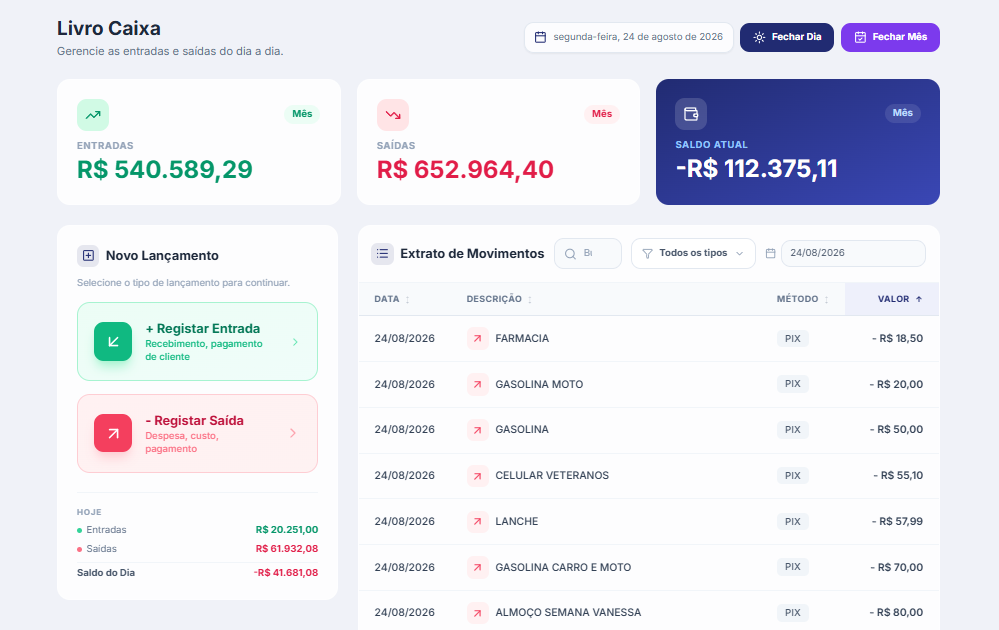
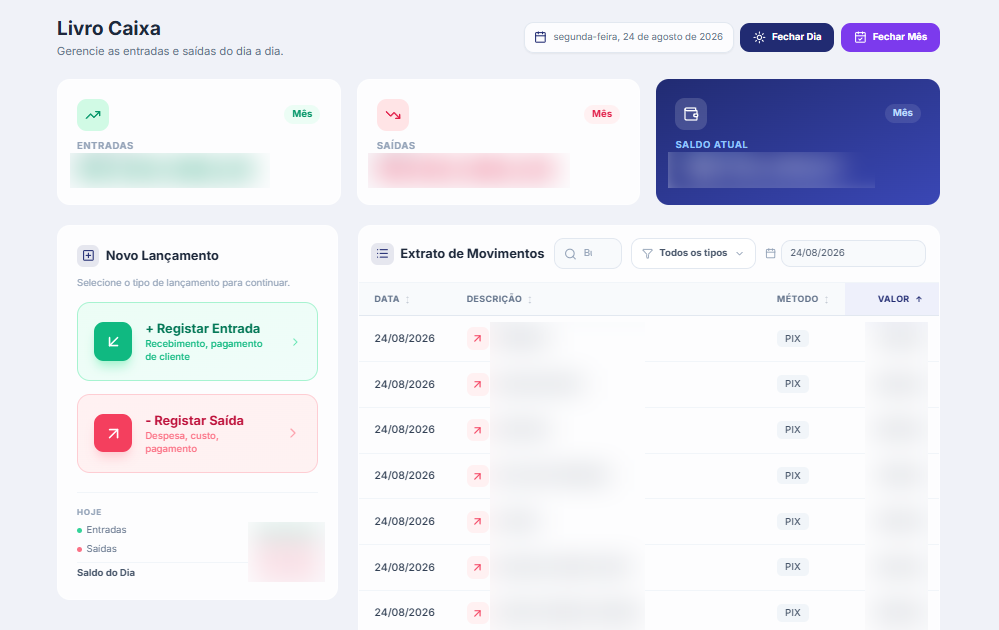
Saída própria pra seção de sistemas e valores borrados no financeiro
#sistemas terminava na letra miúda do orçamento e emendava no Google: o
visitante via os casos e não tinha pra onde ir, enquanto todo o resto da
página levava ao WhatsApp. Agora tem três portas: um cartão de saída no fim
da seção com link próprio, "Sistemas" como primeiro item do menu no desktop
e no mobile, e uma linha no hero abaixo dos dois botões.

A mensagem do WhatsApp dessa saída é outra, e fica fixa no código. Quem
chega por aqui não está pedindo plano mensal — a conversa começa errada se
a mensagem disser "planos". Não virou prop porque mais um campo no editor é
mais um campo pra esquecer.

As capturas do financeiro traziam número real de cliente: saldo de caixa,
total em contratos, vendas do mês e um extrato com nome de pessoa na
descrição. Os valores saíram no desfoque, banda a banda, com as bandas
medidas por perfil de linha. Os rótulos continuam nítidos de propósito — é
o rótulo que mostra que aquilo é um sistema, não o valor. PNG e WebP foram
borrados os dois, senão a versão em alta continua legível: a pasta imgs/
serve as duas pela URL.

Entram junto o publicar.ps1, que separa o envio de teste do de produção, e
o .claude/launch.json com o servidor local de preview — a página precisa de
servidor, por file:// o support.js não carrega.

diff --git a/index.html b/index.html
@@ -788,6 +788,24 @@
 
   .sis-pe { margin: 26px 0 0; font-size: 12.5px; line-height: 1.6; color: var(--placeholder); text-align: center; }
 
+  /* ---- a saida da secao ----
+     A secao terminava na letra miuda: o visitante via o caso do banco e nao
+     tinha para onde ir. O link e o mesmo WhatsApp do resto da pagina, mas com
+     mensagem propria (`sistemaUrl`) -- quem chega por aqui nao esta pedindo
+     plano mensal, e a conversa comeca errada se a mensagem disser "planos". */
+  .sis-cta {
+    margin-top: 34px; padding: clamp(30px, 4vw, 46px); text-align: center;
+    border-radius: var(--r-base); background: var(--bg); box-shadow: var(--nm-out-sm);
+  }
+  .sis-cta h3 {
+    font-family: 'Plus Jakarta Sans', system-ui, sans-serif; font-weight: 800;
+    font-size: clamp(21px, 2.6vw, 30px); line-height: 1.14; letter-spacing: -.025em;
+    margin: 0; color: var(--fg);
+  }
+  .sis-cta > p { margin: 14px auto 0; max-width: 48ch; font-size: 15.5px; line-height: 1.65; color: var(--muted); }
+  .sis-cta .btn { margin-top: 26px; }
+  .sis-cta .sis-pe { margin-top: 22px; }
+
   @media (max-width: 980px) {
     .sis-slide { grid-template-columns: minmax(0,1fr); gap: 24px; }
     .sis-midia { order: -1; justify-items: center; }
@@ -1809,6 +1827,7 @@
       </div>
 
       <nav class="nav-desktop" style="display: flex; align-items: center; gap: 6px;">
+        <a class="nav-link" href="#sistemas">Sistemas</a>
         <a class="nav-link" href="#diferenciais">Por que ACTech</a>
         <a class="nav-link" href="#faq">Dúvidas</a>
         <!-- Dois caminhos no topo: quem quer ver preço antes de falar com alguém
@@ -1830,6 +1849,7 @@
     <sc-if value="{{ menuOpen }}" hint-placeholder-val="{{ false }}">
       <div class="mobile-menu wrap" style="padding-bottom: 18px;">
         <div class="nm-card" style="padding: 14px; display: grid; gap: 4px;">
+          <a class="nav-link" href="#sistemas" onClick="{{ closeMenu }}" style="display: block;">Sistemas</a>
           <a class="nav-link" href="#diferenciais" onClick="{{ closeMenu }}" style="display: block;">Por que ACTech</a>
           <a class="nav-link" href="#faq" onClick="{{ closeMenu }}" style="display: block;">Dúvidas</a>
           <a class="btn btn-secondary btn-block" href="#planos" onClick="{{ closeMenu }}" style="margin-top: 10px;">Ver planos</a>
@@ -1861,6 +1881,14 @@
             <svg width="18" height="18" viewBox="0 0 24 24" fill="#38B2AC"><path d="M12 2a10 10 0 00-8.6 15.1L2 22l5-1.3A10 10 0 1012 2zm0 18a8 8 0 01-4.1-1.1l-.3-.2-3 .8.8-2.9-.2-.3A8 8 0 1112 20z"></path><path d="M8.6 7.3c.2-.4.4-.4.6-.4h.5c.2 0 .4 0 .6.4l.8 1.9c.1.3 0 .5-.1.6l-.5.6c-.1.2-.2.3 0 .6.3.5 1 1.6 2.4 2.2.4.2.6.1.8-.1l.5-.6c.2-.2.4-.2.6-.1l1.8.9c.3.2.4.3.4.5 0 .3-.1 1-.6 1.4-.4.4-1 .6-1.6.6-1 0-2.7-.6-4.3-2.1-1.6-1.5-2.4-3-2.5-4 0-.7.2-1.4.6-1.9z"></path></svg>
             Falar no WhatsApp
           </a>
+        </div>
+
+        <!-- A outra metade do negocio. O hero fala de site e marketing; quem chega
+             com dor interna (planilha, controle, caixa) precisa de uma porta aqui
+             em cima, senao so descobre #sistemas se rolar meia pagina. -->
+        <div data-reveal="1" style="margin-top: 24px; font-size: 14.5px; line-height: 1.6; color: #59616E;">
+          Precisa de um sistema interno?
+          <a href="#sistemas" style="color: #6C63FF; font-weight: 700; text-decoration: none; border-bottom: 1.5px solid rgba(108,99,255,.35);">Veja três que a gente construiu →</a>
         </div>
       </div>
 
@@ -2551,7 +2579,15 @@
         </div>
     </div>
 
-    <p class="sis-pe">Sistema sob medida é orçado à parte, fora dos planos mensais — cada um tem um tamanho.</p>
+    <div class="sis-cta" data-reveal="1">
+      <h3>Tem uma planilha que já não dá conta?</h3>
+      <p>Conta o que trava o seu dia hoje. A gente responde se dá pra resolver com um sistema — e o que ele teria que fazer.</p>
+      <a class="btn btn-primary" href="{{ sistemaUrl }}" target="_blank" rel="noopener">
+        <svg width="18" height="18" viewBox="0 0 24 24" fill="#FFFFFF" aria-hidden="true"><path d="M12 2a10 10 0 00-8.6 15.1L2 22l5-1.3A10 10 0 1012 2zm0 18a8 8 0 01-4.1-1.1l-.3-.2-3 .8.8-2.9-.2-.3A8 8 0 1112 20z"></path><path d="M8.6 7.3c.2-.4.4-.4.6-.4h.5c.2 0 .4 0 .6.4l.8 1.9c.1.3 0 .5-.1.6l-.5.6c-.1.2-.2.3 0 .6.3.5 1 1.6 2.4 2.2.4.2.6.1.8-.1l.5-.6c.2-.2.4-.2.6-.1l1.8.9c.3.2.4.3.4.5 0 .3-.1 1-.6 1.4-.4.4-1 .6-1.6.6-1 0-2.7-.6-4.3-2.1-1.6-1.5-2.4-3-2.5-4 0-.7.2-1.4.6-1.9z"></path></svg>
+        Falar sobre um sistema
+      </a>
+      <p class="sis-pe">Sistema sob medida é orçado à parte, fora dos planos mensais — cada um tem um tamanho.</p>
+    </div>
   </section>
 
   <section id="google" class="wrap pad-section" style="position: relative; z-index: 1; padding-top: 20px; padding-bottom: 100px;">
@@ -4789,6 +4825,10 @@ class Component extends DCLogic {
     // O @ do perfil: trocar aqui (ou no campo Contato) muda todos os links de uma vez.
     const insta = (this.props.instagramUser ?? 'actech.systems').replace(/^@/, '');
     const msg = encodeURIComponent(this.props.whatsappMessage ?? 'Olá! Vi a página da ACTech e quero saber mais sobre os planos.');
+    // Quem vem de #sistemas nao esta pedindo plano mensal: a conversa chega no
+    // WhatsApp ja dizendo o assunto certo. Mensagem fixa de proposito -- se virar
+    // prop, vira mais um campo pra esquecer de preencher no editor.
+    const msgSistema = encodeURIComponent('Olá! Vi os sistemas sob medida na página da ACTech e queria conversar sobre um para o meu negócio.');
     const faqData = this.memo('faq', () => [
       { q: 'Em quanto tempo meu site fica pronto?', a: 'Até 5 dias úteis depois que recebemos o material básico: logo, fotos, textos e informações de contato. Se preferir, a gente ajuda a organizar esse conteúdo antes de começar.' },
       { q: 'Como funciona o 1º mês grátis?', a: 'Você não paga a primeira mensalidade. Nesse período já fazemos o site, publicamos os posts e configuramos o Google Meu Negócio. A cobrança começa no segundo mês.' },
@@ -4841,6 +4881,7 @@ class Component extends DCLogic {
 
     return {
       whatsUrl: 'https://wa.me/' + phone + '?text=' + msg,
+      sistemaUrl: 'https://wa.me/' + phone + '?text=' + msgSistema,
       instaUrl: 'https://instagram.com/' + insta,
       instaUser: '@' + insta,
 

diff --git a/COMPONENTES.md b/COMPONENTES.md
@@ -395,12 +395,35 @@ os três casos em sequência e o Tab passaria por dentro de slide invisível.
 **As capturas foram reduzidas para 1100px de largura** e a moldura tem `max-width: 560px` —
 antes ocupavam metade da tela e engoliam o texto do caso.
 
-> **As capturas do financeiro carregam números reais do cliente**: saldo de caixa, valor em
-> contratos, vendas do mês, e o extrato traz descrições com nome de pessoa. **Se isso
-> incomodar, borre os valores antes de republicar** — os números não são o que vende a seção.
+> **Os números do financeiro estão borrados.** As capturas traziam dados reais de um
+> cliente: saldo de caixa, total em contratos, vendas do mês e um extrato com nome de
+> pessoa na descrição. O desfoque é gaussiano (raio 13), aplicado banda a banda — só em
+> cima do número, nunca do rótulo, que é o que faz a tela continuar legível como sistema.
+> As bandas foram medidas por perfil de linha, não no olho; o script está no histórico
+> deste commit. **Os rótulos continuam nítidos de propósito** — "SALDO DO CAIXA",
+> "A RECEBER CP", a coluna "MÉTODO": é isso que vende a seção, não o valor. O PNG é a
+> origem e o WebP sai dele por redimensionamento; ao regerar, borre o PNG e reexporte,
+> senão a versão em alta continua legível na pasta `imgs/` — e ela é servida pela URL
+> também. Ao acrescentar captura nova, o mesmo trabalho.
 >
 > Os chips de cada caso são fatos estruturais de propósito (2 cliques, dia e mês, 1x a 12x) e
 > nunca os valores do cliente. Mantenha essa régua.
+
+### A saída da seção
+
+Até aqui `#sistemas` terminava na letra miúda do orçamento e emendava no Google: o
+visitante via o caso do banco e não tinha para onde ir, enquanto todo o resto da página
+levava ao WhatsApp. Agora tem três portas:
+
+- **O cartão de saída** no fim da seção (`.sis-cta`), com link próprio: `sistemaUrl`, a
+  mesma linha do `whatsUrl` mas com outra mensagem — quem chega por aqui não está pedindo
+  plano mensal, e a conversa começa errada se a mensagem disser "planos". A mensagem é
+  fixa no código, e não `prop`: mais um campo no editor é mais um campo pra esquecer.
+- **"Sistemas" no menu**, no desktop e no mobile, como primeiro item. Era a única seção
+  grande sem entrada no topo.
+- **Uma linha no hero**, abaixo dos dois botões. O H1 segue falando de site e marketing —
+  é o que a maioria vem buscar — mas quem chega com dor interna (planilha, controle,
+  caixa) não deveria precisar rolar meia página pra descobrir que a ACTech faz isso.
 
 Abaixo, quatro tipos de sistema (painel de gestão, financeiro, agenda, integração), cada um
 com a sua cor da roda. E o rodapé diz o que precisa ser dito: **sistema sob medida é orçado à
